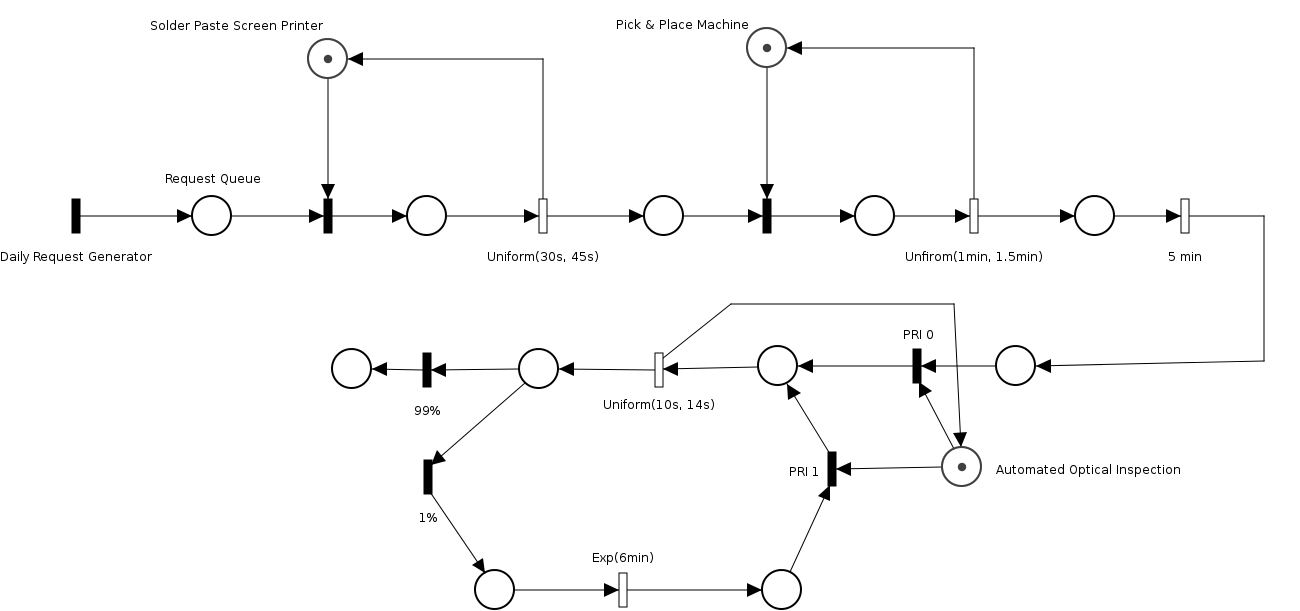
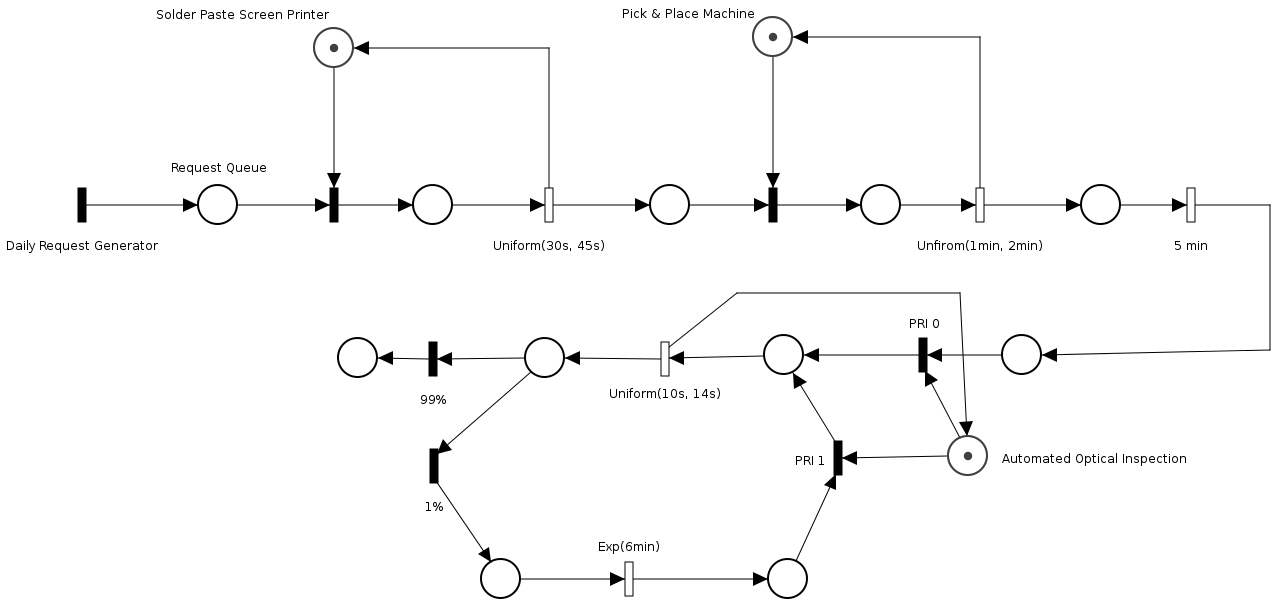
Updates to SMT line

diff --git a/proj.cpp b/proj.cpp
@@ -24,7 +24,7 @@ std::vector<Machine*> screenPrinters;
 std::vector<Machine*> pnpMachines;
 std::vector<Machine*> aoiMachines;
 double minPnpTime = 1 * MINUTES;
-double maxPnpTime = 1.5 * MINUTES;
+double maxPnpTime = 2 * MINUTES;
 double aoiErrorRate = 1.0;
 
 // DIP
